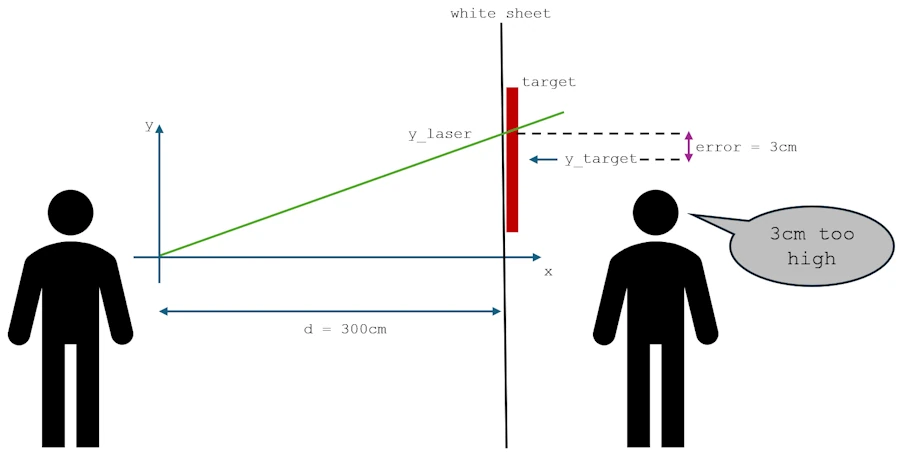
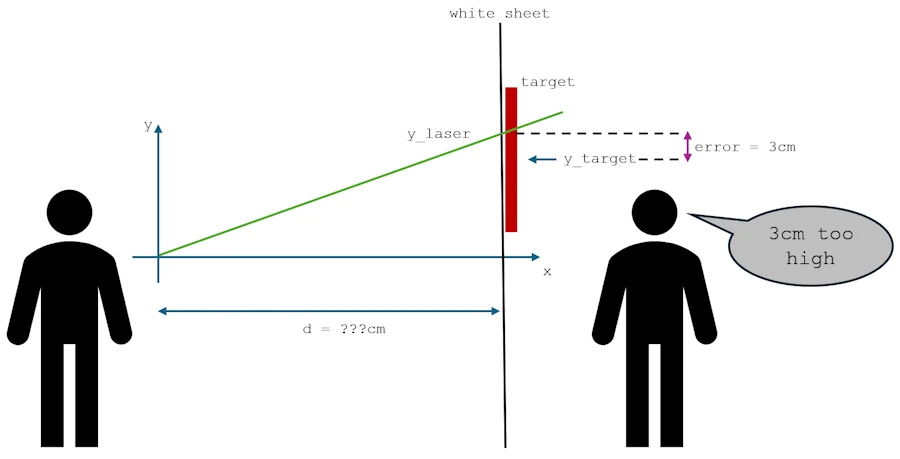
Make clear we don't know the distance

diff --git a/docs/09_machine_learning/002_gradient_descent/gradient_descent.md b/docs/09_machine_learning/002_gradient_descent/gradient_descent.md
@@ -114,7 +114,7 @@ Your goal? Adjust the angle of your laser until it hits the target perfectly. No
 <!-- ### The Setup
 {: .no_toc } -->
 
-Let's make this concrete with numbers. Say you're standing 3 meters (300 cm) away from the wall, and your laser starts at chest height (let's call that 0 centimeters for simplicity).
+Let's translate this with equations. Say you're standing few meters away from the wall, and your laser starts at chest height (let's call that 0 centimeters for simplicity).
 
 The laser beam follows a straight line that we can describe mathematically as:
 
@@ -135,7 +135,9 @@ $$y = a × x$$
 <!-- <span>Gradient Descent in 2D.</span> -->
 </div>
 
+The **key point** here is : you **don't know the distance** between you and the target. Otherwise the "problem" is solved in one step once your friend tells you the error.
 
+<!-- $$\alpha = arctan(frac{}{distance})$$ -->
 
 
 
